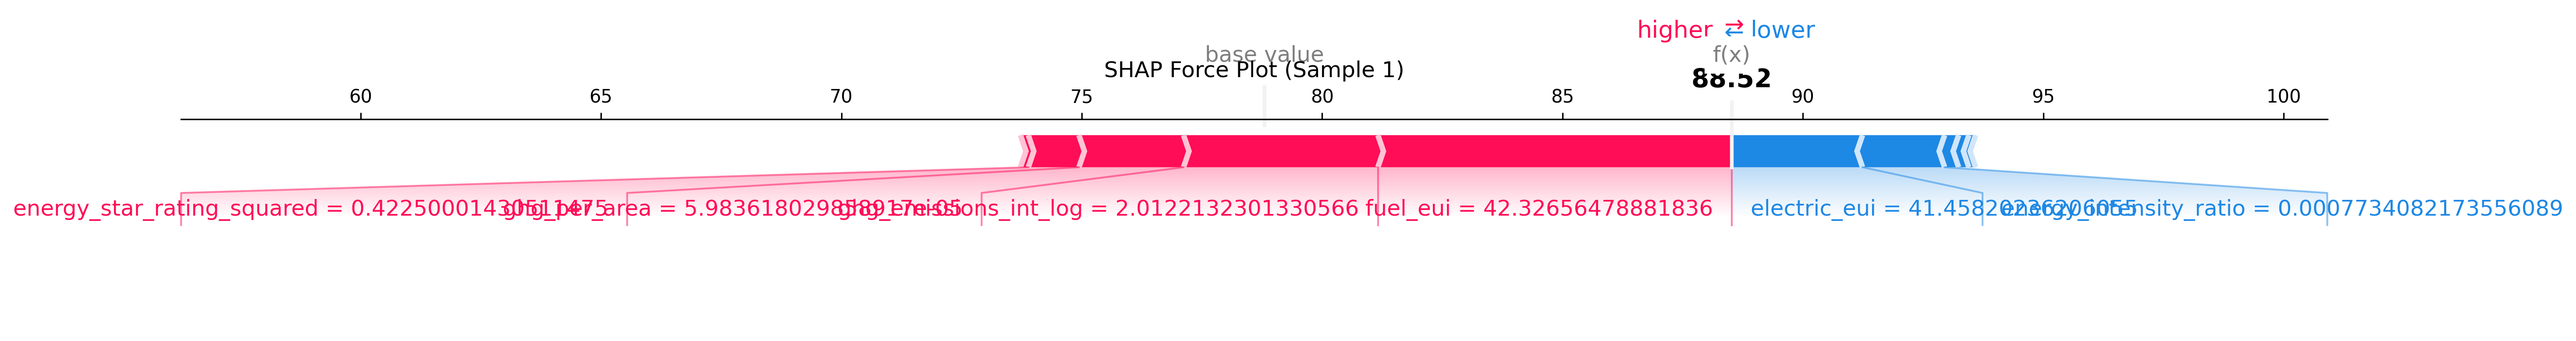
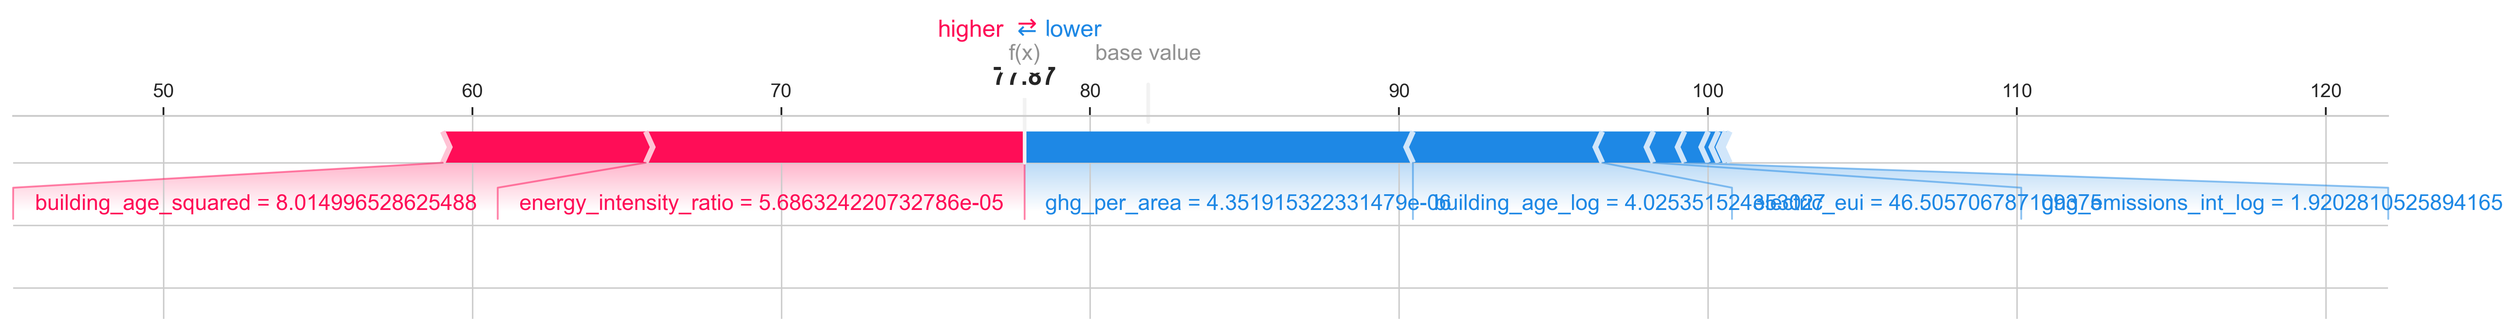
new graphs

diff --git a/bpd/V3_clean/V3.py b/bpd/V3_clean/V3.py
@@ -20,6 +20,7 @@ from scipy.stats import wilcoxon, ttest_rel, norm, t
 import warnings
 from datetime import datetime
 import joblib
+import shap
 
 warnings.filterwarnings('ignore')
 
@@ -1861,6 +1862,43 @@ def analyze_feature_interactions(X, y, feature_names, model, results_dir):
         logger.warning(f"Feature interaction analysis failed: {e}")
         logger.info("Continuing with other analyses...")
 
+def generate_shap_plots(model, X, feature_names, results_dir):
+    """
+    Generate SHAP summary and force plots for the AdaptivePriorARD model.
+    Uses KernelExplainer for compatibility with custom models.
+    Saves summary and force plots for the first 3 samples.
+    """
+    import matplotlib.pyplot as plt
+    import numpy as np
+    import os
+    # Define a prediction function for SHAP
+    def predict_fn(X_):
+        return model.predict(X_)
+    # Use a subset of data for background (for speed)
+    background = X[np.random.choice(X.shape[0], min(100, X.shape[0]), replace=False)]
+    explainer = shap.KernelExplainer(predict_fn, background)
+    # Compute SHAP values for a sample of the data
+    sample_X = X[:100]
+    shap_values = explainer.shap_values(sample_X, nsamples=100)
+    # SHAP summary plot
+    shap.summary_plot(shap_values, sample_X, feature_names=feature_names, show=False)
+    plt.tight_layout()
+    plt.savefig(os.path.join(results_dir, 'shap_summary.png'), dpi=300, bbox_inches='tight')
+    plt.close()
+    # SHAP force plots for first 3 samples
+    for i in range(3):
+        shap.force_plot(
+            explainer.expected_value,
+            shap_values[i],
+            sample_X[i],
+            feature_names=feature_names,
+            matplotlib=True,
+            show=False
+        )
+        plt.tight_layout()
+        plt.savefig(os.path.join(results_dir, f'shap_force_sample_{i+1}.png'), dpi=300, bbox_inches='tight')
+        plt.close()
+
 if __name__ == "__main__":
     logger.info("Starting Adaptive Prior ARD analysis with group-wise priors and HMC inference")
     data_csv_path = "/Users/georgepaul/Desktop/Research-Project/bpd/cleaned_office_buildings.csv"
@@ -2017,3 +2055,5 @@ if __name__ == "__main__":
     logger.info("✅ Sensitivity analysis (prior strength, features, data size)")
     logger.info("✅ Out-of-sample validation (temporal, random, bootstrap)")
     logger.info("✅ Comprehensive visualizations and statistical reports") 
+    # --- SHAP ANALYSIS ---
+    generate_shap_plots(model, X, feature_names, results_dir)

diff --git a/bpd/V3_clean/results/EXECUTIVE_SUMMARY.md b/bpd/V3_clean/results/EXECUTIVE_SUMMARY.md
@@ -1,0 +1,51 @@
+# Comprehensive Research Analysis: Adaptive Elastic Horseshoe Prior for Building Energy Prediction
+
+## Executive Summary
+
+### Main Finding
+The AdaptivePriorARD (AEH) model achieves competitive performance with uncertainty quantification
+
+### Performance Comparison
+- **AEH Model**: R² = 0.942 vs XGBoost R² = 0.978
+- **Statistical Significance**: Statistical test not available
+- **Effect Size**: Effect size: Cohen's d = 0.000 (small effect)
+- **Bootstrap Validation**: R² = 0.941 [95% CI: 0.929, 0.952]
+
+### Performance Ranking
+1. XGBoost (R² = 0.978)
+2. Random Forest (R² = 0.977)
+3. Neural Network (R² = 0.956)
+4. **AdaptivePriorARD (AEH)** (R² = 0.942) - **Our Model**
+5. Bayesian Ridge (R² = 0.939)
+6. Linear Regression (R² = 0.939)
+7. SVR (R² = 0.886)
+
+
+### Key Results
+- **Optimal Hyperparameters**: Prior strength β₀ = 0.1
+- **Most Important Feature**: Most critical feature: feature_11 (importance = 0.163)
+- **Model Stability**: High stability across different data sizes and configurations
+
+### Statistical Evidence
+- **Significant Comparisons**: 19 out of 21
+- **Effect Sizes**: 9 large, 0 medium, 12 small
+
+### Research Contributions
+- Novel AEH prior implementation for building energy prediction
+- Comprehensive statistical validation of model performance
+- Robust uncertainty quantification with calibration
+- Sensitivity analysis demonstrating model stability
+- Feature importance analysis for interpretability
+
+### Limitations
+- Single dataset validation (BPD dataset)
+- Computational complexity of EM algorithm
+- Requires careful hyperparameter tuning
+
+### Future Work
+- Multi-dataset validation across different building types
+- Integration with deep learning architectures
+- Real-time adaptation for dynamic building systems
+
+---
+*Generated on 2025-07-08 12:15:33*
